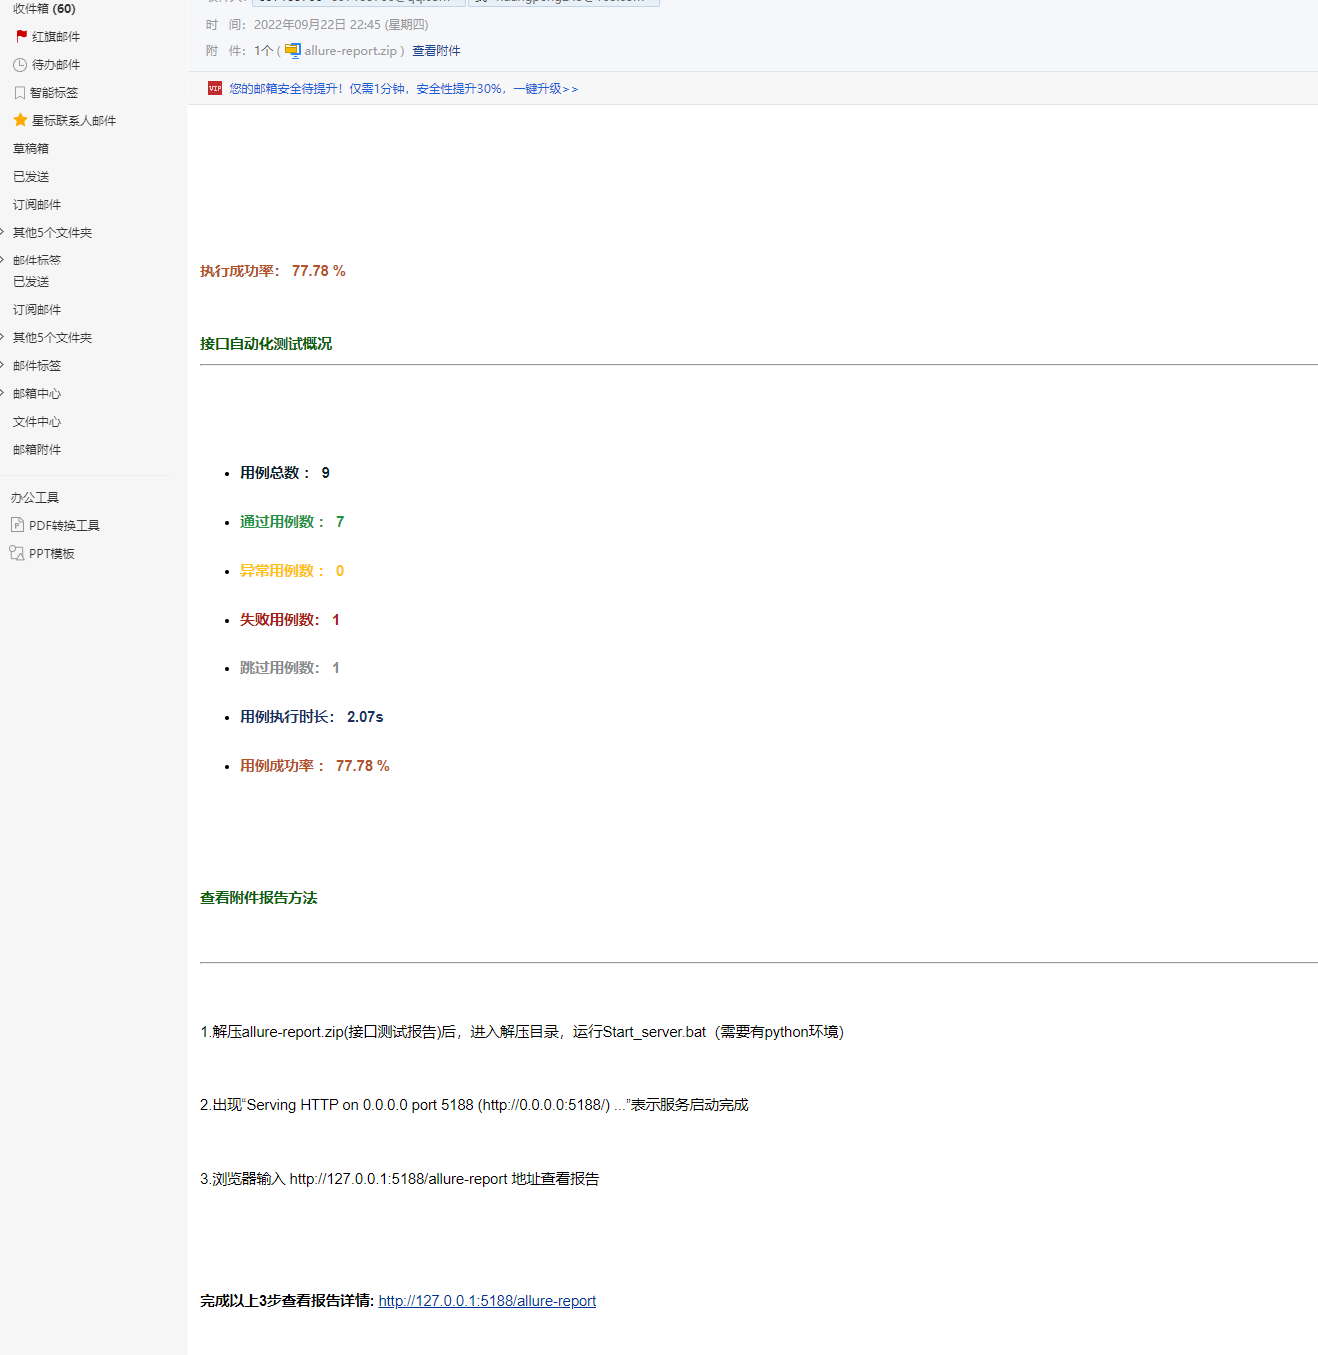
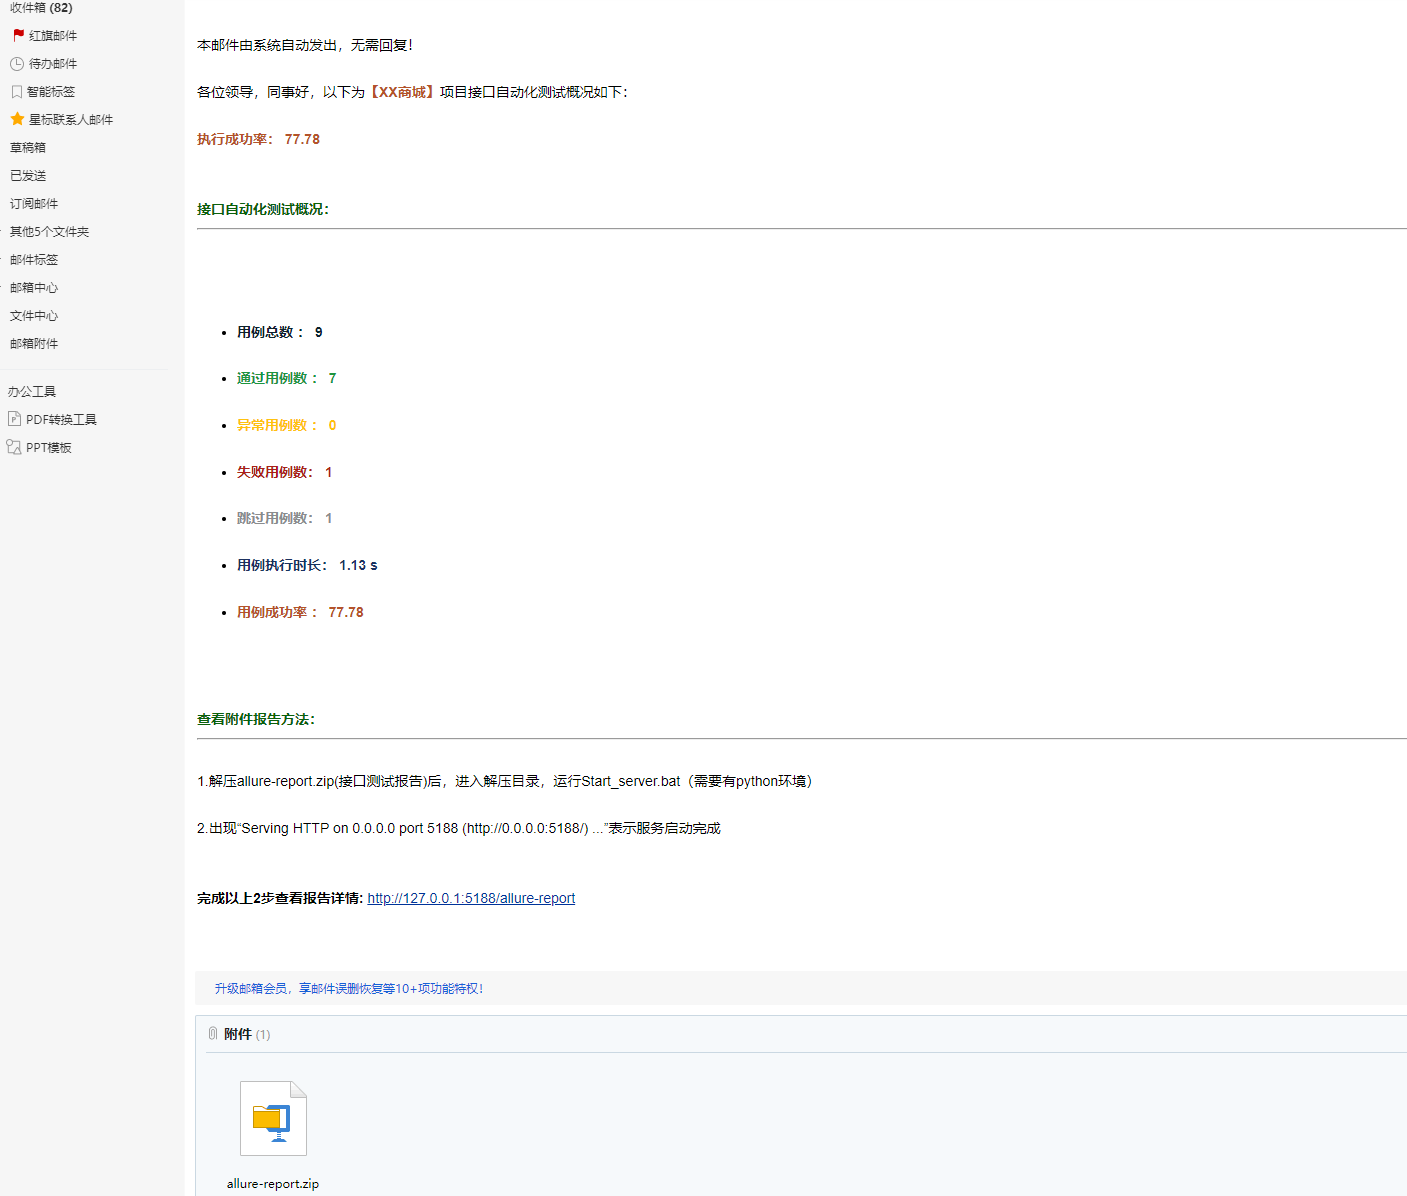
updata

diff --git a/config/report.html b/config/report.html
@@ -1,52 +1,24 @@
-<!DOCTYPE html>
-
-
-<head>
 <meta charset="UTF-8">
-<title>${PROJECT_NAME}</title>
-</head>
+本邮件由系统自动发出，无需回复！<br/>
+各位领导，同事好，以下为<font color="#b4532a"><b>【${PROJECT_NAME}】</b></font>项目接口自动化测试概况如下：<br/>
+<font color="#b4532a"><b>执行成功率： ${_SUCCESS_RATE}</b></font><br/>
 
-<!--<body leftmargin="8" marginwidth="0" topmargin="8" marginheight="4"offset="0">-->
-<body leftmargin="8" marginwidth="0" topmargin="8" marginheight="4"offset="0">
+<b><font color="#0B610B">接口自动化测试概况：</font></b>
+<hr size="2" width="100%" align="center"/>
+<ul>
 
-    <table width="95%" cellpadding="0" cellspacing="0"  style="font-size: 11pt; font-family: Tahoma, Arial, Helvetica, sans-serif">
-        <tr>
-            本邮件由系统自动发出，无需回复！<br/>
-            各位领导，同事好，以下为<font color="#b4532a"><b>【${PROJECT_NAME}】</b></font>项目接口自动化测试概况!!!</br>
-            <td><font color="#b4532a"><b>执行成功率： ${_SUCCESS_RATE}</b></font></td>
-        </tr>
-        <tr>
-            <td><br />
-            <b><font color="#0B610B">接口自动化测试概况</font></b>
-            <hr size="2" width="100%" align="center" /></td>
-        </tr>
-        <tr>
-            <td>
-                                <ul>
+    <li><font color="#0c212b"><b>用例总数 ： ${_TOTAL}</b></font></li>
+    <li><font color="#1d953f"><b>通过用例数 ： ${_PASSED}</b></font></li>
+    <li><font color="#ffc20e"><b>异常用例数 ： ${_ERROR}</b></font></li>
+    <li><font color="#aa2116"><b>失败用例数： ${_FAILED}</b></font></li>
+    <li><font color="#8a8c8e"><b>跳过用例数： ${_SKIPPED}</b></font></li>
+    <li><font color="#1b315e"><b>用例执行时长： ${_TIMES}</b></font></li>
+    <li><font color="#b4532a"><b>用例成功率 ： ${_SUCCESS_RATE}</b></font></li>
+</ul>
 
-                    <li><font color="#0c212b"><b>用例总数 ： ${_TOTAL}</b></font></li>
-                    <li><font color="#1d953f"><b>通过用例数 ： ${_PASSED}</b></font></li>
-                    <li><font color="#ffc20e"><b>异常用例数 ： ${_ERROR}</b></font></li>
-                    <li><font color="#aa2116"><b>失败用例数： ${_FAILED}</b></font></li>
-                    <li><font color="#8a8c8e"><b>跳过用例数： ${_SKIPPED}</b></font></li>
-                    <li><font color="#1b315e"><b>用例执行时长： ${_TIMES}</b></font></li>
-                    <li><font color="#b4532a"><b>用例成功率 ： ${_SUCCESS_RATE}</b></font></li>
-                </ul>
+<b><font color="#0B610B">查看附件报告方法：</font></b>
+<hr size="2" width="100%" align="center"/>
+1.解压allure-report.zip(接口测试报告)后，进入解压目录，运行Start_server.bat（需要有python环境）<br/>
+2.出现“Serving HTTP on 0.0.0.0 port 5188 (http://0.0.0.0:5188/) ...”表示服务启动完成<br/>
 
-<h4><font color="#0B610B">查看附件报告方法</font></h4>
-<hr size="2" width="100%" />
-
-1.解压allure-report.zip(接口测试报告)后，进入解压目录，运行Start_server.bat（需要有python环境）
-<br/>
-2.出现“Serving HTTP on 0.0.0.0 port 5188 (http://0.0.0.0:5188/) ...”表示服务启动完成
-                <br/>
-3.浏览器输入 http://127.0.0.1:5188/allure-report 地址查看报告
-    <br/>
-                 <br/>
-<b>完成以上3步查看报告详情:</b> <a href="http://127.0.0.1:5188/allure-report">http://127.0.0.1:5188/allure-report</a><br/>
-
-            </td>
-        </tr>
-    </table>
-</body>
-</html>
+<b>完成以上2步查看报告详情:</b> <a href="http://127.0.0.1:5188/allure-report">http://127.0.0.1:5188/allure-report</a><br/>

diff --git a/conftest.py b/conftest.py
@@ -61,11 +61,12 @@ def pytest_terminal_summary(terminalreporter):
     Logger.error(f"异常用例数: {_ERROR}")
     Logger.error(f"失败用例数: {_FAILED}")
     Logger.warning(f"跳过用例数: {_SKIPPED}")
-    Logger.info("用例执行时长: %.2f" % _TIMES + " s")
+    Logger.info(f"用例执行时长: {round(_TIMES, 2)} s")
 
     try:
         _RATE = _PASSED / _TOTAL * 100
-        _SUCCESS_RATE="%.2f" % _RATE + " %"
+
+        _SUCCESS_RATE=round(_RATE, 2)
 
     except ZeroDivisionError:
         _SUCCESS_RATE="0.00"
@@ -77,7 +78,7 @@ def pytest_terminal_summary(terminalreporter):
         "_ERROR": f" {_ERROR}",
         "_FAILED": f" {_FAILED}",
         "_SKIPPED": f" {_SKIPPED}",
-        "_TIMES": "%.2f"% _TIMES + "s",
+        "_TIMES": f"{round(_TIMES, 2)} s",
         "_SUCCESS_RATE": f"{_SUCCESS_RATE}",
     }
     ExchangeData.post_pytest_summary(result_data_test)

diff --git a/解析/参数依赖01-jsonpath提取参数.py b/解析/参数依赖01-jsonpath提取参数.py
@@ -16,17 +16,17 @@ dic_data={
         "username": "admin",
         "mobile": "12345678",
         "email": "adsfad@qq.com",
-        "token": "Bearer eyJhbGciOiJIUzI1NiIsInR5cCI6IkpXVCJ9.eyJ1aWQiOjUwMCwicmlkIjowLCJpYXQiOjE2NjAxMjEyMDYsImV4cCI6MTY2MDIwNzYwNn0.el8d3Wj4vgqqsC33Ypwc18kcEoScuu228hOKnU1Dozw"
+        "token": "228hOKnU1Dozw"
     },
     "token": "Bea",
     "meta": {
         "msg": "登录成功",
         "status": 200,
-        "token": "Bearer eyJhbGciOiJIUz"
+        "token": "eyJhbGciOiJIUz"
     }
 }
 
-print(jsonpath.jsonpath(dic_data,"$.data.token")[0])
+print(jsonpath.jsonpath(dic_data,"$..token.[2]"))
 # extract_data={}
 #
 # josn_path_dic={"email": "$..email","token":"$.data.token","mobile":"$.data.mobile"}
